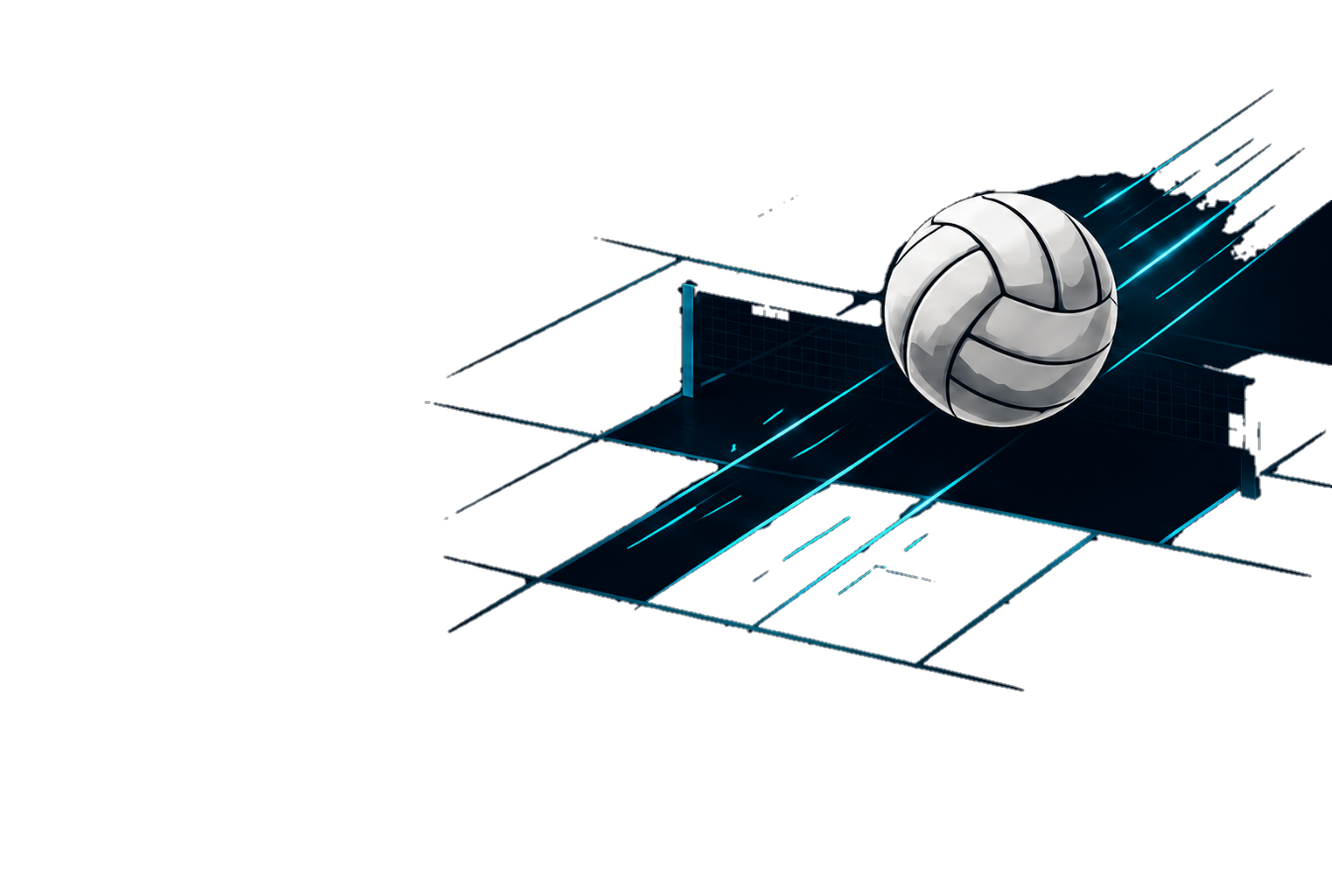
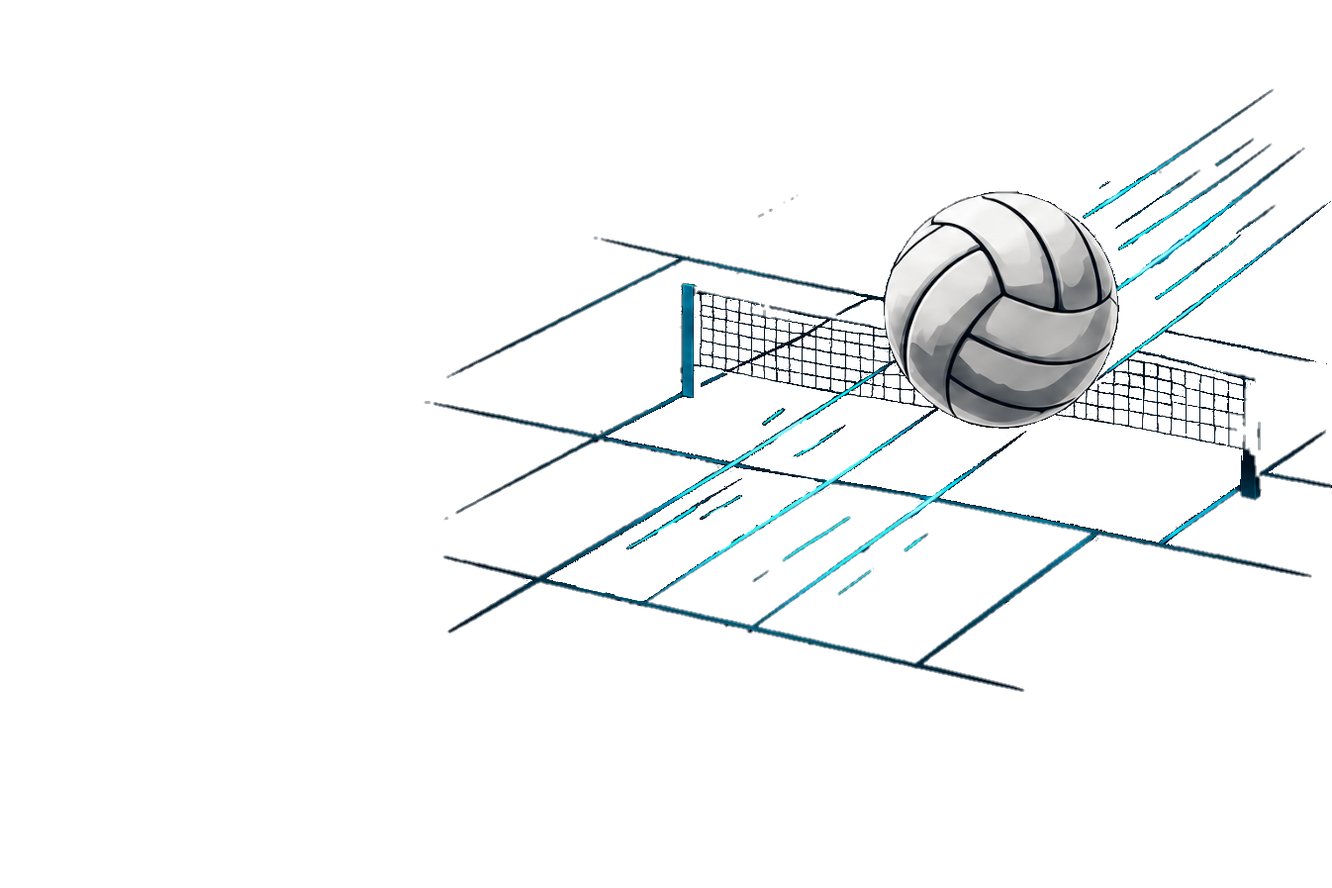
Versão 2.6
* Ajuste no modo claro.
* Opção de redefinir senha.
* Correção de bug.

Changed region(s): [[0.4056, 0.1873, 1.0, 0.6867], [0.6553, 0.6243, 0.6865, 0.6555]]

diff --git a/jogo.js b/jogo.js
@@ -191,7 +191,7 @@ function validateScores() {
 
 function renderLiveRanking() {
   const standings = buildStandings();
-  document.querySelector("#live-ranking-list").innerHTML = standings.map((team, index) => `<div class="ranking-row ${index < 3 ? "podium" : ""}"><strong>${index + 1}º</strong><span>${escapeQuick(team.name)}</span>${rankingStats(team)}</div>`).join("");
+  document.querySelector("#live-ranking-list").innerHTML = standings.map((team, index) => `<div class="ranking-row ${index < 3 ? "podium" : ""}"><strong>${index + 1}º</strong>${quickTeamDropdown(team.name)}${rankingStats(team)}</div>`).join("");
 }
 
 function persistPartialScores() {
@@ -268,6 +268,22 @@ function applyLiveSettings() {
 function renderOverview() {
   document.querySelector("#save-retro-scores").hidden = !retroEditingUnlocked;
   overviewRounds.innerHTML = quickSchedule.map((round, index) => `<article class="round overview-round ${index === currentRound ? "is-current" : ""}"><header class="round-title">Rodada ${index + 1}<span>${index === currentRound ? "ATUAL" : index < currentRound ? "CONCLUÍDA" : "AGUARDANDO"}</span></header>${round.matches.map(([home, away], gameIndex) => { const result = scores.get(scoreKey(index, gameIndex)); const editable = retroEditingUnlocked && index < currentRound; const currentGame = index === currentRound && gameIndex === confirmedGameCount; const score = result && result[0] !== "" && result[1] !== "" ? `${result[0]} × ${result[1]}` : "×"; return editable ? `<div class="match overview-match retro-match"><span>${escapeQuick(home)}</span><span class="retro-score-inputs"><input data-retro-round="${index}" data-retro-game="${gameIndex}" data-side="0" type="number" min="0" value="${result?.[0] ?? ""}" aria-label="Novo placar de ${escapeQuick(home)}" /><b>×</b><input data-retro-round="${index}" data-retro-game="${gameIndex}" data-side="1" type="number" min="0" value="${result?.[1] ?? ""}" aria-label="Novo placar de ${escapeQuick(away)}" /></span><span class="team-away">${escapeQuick(away)}</span></div>` : `<div class="match overview-match ${currentGame ? "is-current-match" : ""}"><span>${escapeQuick(home)}</span><span class="overview-score">${score}</span><span class="team-away">${escapeQuick(away)}</span></div>`; }).join("")}${round.bye ? `<div class="bye">Folga: <strong>${escapeQuick(round.bye)}</strong></div>` : ""}</article>`).join("");
+}
+
+function renderOverview() {
+  document.querySelector("#save-retro-scores").hidden = !retroEditingUnlocked;
+  overviewRounds.innerHTML = quickSchedule.map((round, index) => {
+    const state = index === currentRound ? "ATUAL" : index < currentRound ? "CONCLUÍDA" : "AGUARDANDO";
+    const matches = round.matches.map(([home, away], gameIndex) => {
+      const result = scores.get(scoreKey(index, gameIndex));
+      const editable = retroEditingUnlocked && index < currentRound;
+      const currentGame = index === currentRound && gameIndex === confirmedGameCount;
+      const score = result && result[0] !== "" && result[1] !== "" ? `${result[0]} × ${result[1]}` : "×";
+      if (editable) return `<div class="match overview-match retro-match"><span>${escapeQuick(home)}</span><span class="retro-score-inputs"><input data-retro-round="${index}" data-retro-game="${gameIndex}" data-side="0" type="number" min="0" value="${result?.[0] ?? ""}" aria-label="Novo placar de ${escapeQuick(home)}" /><b>×</b><input data-retro-round="${index}" data-retro-game="${gameIndex}" data-side="1" type="number" min="0" value="${result?.[1] ?? ""}" aria-label="Novo placar de ${escapeQuick(away)}" /></span><span class="team-away">${escapeQuick(away)}</span></div>`;
+      return `<div class="match overview-match ${currentGame ? "is-current-match" : ""}">${quickTeamDropdown(home)}<span class="overview-score">${score}</span>${quickTeamDropdown(away, true)}</div>`;
+    }).join("");
+    return `<article class="round overview-round ${index === currentRound ? "is-current" : ""}"><header class="round-title">Rodada ${index + 1}<span>${state}</span></header>${matches}${round.bye ? `<div class="bye">Folga: <strong>${escapeQuick(round.bye)}</strong></div>` : ""}</article>`;
+  }).join("");
 }
 
 async function unlockRetroEditing() {
@@ -385,6 +401,16 @@ currentMatches.addEventListener("click", (event) => {
   const selected = event.target.closest("details");
   if (!selected) return;
   currentMatches.querySelectorAll("details[open]").forEach((details) => { if (details !== selected) details.removeAttribute("open"); });
+});
+overviewRounds.addEventListener("click", (event) => {
+  const selected = event.target.closest("details");
+  if (!selected) return;
+  overviewRounds.querySelectorAll("details[open]").forEach((details) => { if (details !== selected) details.removeAttribute("open"); });
+});
+document.querySelector("#live-ranking-list").addEventListener("click", (event) => {
+  const selected = event.target.closest("details");
+  if (!selected) return;
+  document.querySelectorAll("#live-ranking-list details[open]").forEach((details) => { if (details !== selected) details.removeAttribute("open"); });
 });
 document.querySelector("#confirm-round").addEventListener("click", confirmScores);
 document.querySelector("#adjust-game-toggle").addEventListener("click", openLiveSettings);

diff --git a/auth.js b/auth.js
@@ -2,14 +2,16 @@ const loginTab = document.querySelector("#login-tab");
 const signupTab = document.querySelector("#signup-tab");
 const loginForm = document.querySelector("#login-form");
 const signupForm = document.querySelector("#signup-form");
+const recoveryForm = document.querySelector("#password-recovery-form");
+const passwordUpdateForm = document.querySelector("#password-update-form");
+const authTabs = document.querySelector(".auth-tabs");
 const authMessage = document.querySelector("#auth-message");
 const confirmationCompleted = new URLSearchParams(window.location.search).get("confirmado") === "1";
+const recoveryMode = new URLSearchParams(window.location.hash.slice(1)).get("type") === "recovery";
 
 const config = window.SUPABASE_CONFIG;
 const hasSupabaseKey = config?.anonKey && !config.anonKey.startsWith("COLE_A_CHAVE");
-const supabaseClient = hasSupabaseKey && window.supabase
-  ? window.supabase.createClient(config.url, config.anonKey)
-  : null;
+const supabaseClient = hasSupabaseKey ? window.supabaseClient || null : null;
 
 function setMessage(message, type = "") {
   authMessage.textContent = message;
@@ -27,11 +29,33 @@ function showForm(form) {
   const isLogin = form === "login";
   loginForm.hidden = !isLogin;
   signupForm.hidden = isLogin;
+  recoveryForm.hidden = true;
+  passwordUpdateForm.hidden = true;
+  authTabs.hidden = false;
   loginTab.classList.toggle("is-active", isLogin);
   signupTab.classList.toggle("is-active", !isLogin);
   loginTab.setAttribute("aria-selected", String(isLogin));
   signupTab.setAttribute("aria-selected", String(!isLogin));
   setMessage("");
+}
+
+function showRecoveryRequest() {
+  loginForm.hidden = true;
+  signupForm.hidden = true;
+  passwordUpdateForm.hidden = true;
+  recoveryForm.hidden = false;
+  authTabs.hidden = true;
+  setMessage("");
+  document.querySelector("#recovery-email").focus();
+}
+
+function showPasswordUpdate() {
+  loginForm.hidden = true;
+  signupForm.hidden = true;
+  recoveryForm.hidden = true;
+  passwordUpdateForm.hidden = false;
+  authTabs.hidden = true;
+  setMessage("Crie uma nova senha para acessar sua conta.");
 }
 
 function showConfirmationSuccess() {
@@ -52,6 +76,39 @@ async function requireConfiguration() {
 
 loginTab.addEventListener("click", () => showForm("login"));
 signupTab.addEventListener("click", () => showForm("signup"));
+document.querySelector("#password-recovery-toggle").addEventListener("click", showRecoveryRequest);
+document.querySelector("#back-to-login").addEventListener("click", () => showForm("login"));
+
+recoveryForm.addEventListener("submit", async (event) => {
+  event.preventDefault();
+  if (!await requireConfiguration()) return;
+  const button = recoveryForm.querySelector("button[type=submit]");
+  button.disabled = true;
+  setMessage("Enviando e-mail de recuperação…");
+  const { error } = await supabaseClient.auth.resetPasswordForEmail(document.querySelector("#recovery-email").value.trim(), {
+    redirectTo: new URL("login.html", window.location.href).href,
+  });
+  button.disabled = false;
+  if (error) setMessage(authErrorMessage(error), "is-error");
+  else setMessage("Se o e-mail estiver cadastrado, você receberá um link para criar uma nova senha.", "is-success");
+});
+
+passwordUpdateForm.addEventListener("submit", async (event) => {
+  event.preventDefault();
+  if (!await requireConfiguration()) return;
+  const password = document.querySelector("#new-password").value;
+  const confirmation = document.querySelector("#new-password-confirm").value;
+  if (password !== confirmation) { setMessage("As senhas precisam ser iguais.", "is-error"); return; }
+  const button = passwordUpdateForm.querySelector("button[type=submit]");
+  button.disabled = true;
+  const { error } = await supabaseClient.auth.updateUser({ password });
+  button.disabled = false;
+  if (error) { setMessage(authErrorMessage(error), "is-error"); return; }
+  window.history.replaceState({}, document.title, "login.html");
+  showForm("login");
+  setMessage("Senha alterada com sucesso. Entre com sua nova senha.", "is-success");
+});
+
 loginForm.addEventListener("submit", async (event) => {
   event.preventDefault();
   if (!await requireConfiguration()) return;
@@ -98,10 +155,13 @@ signupForm.addEventListener("submit", async (event) => {
 
 if (supabaseClient) {
   supabaseClient.auth.getSession().then(({ data }) => {
+    if (recoveryMode) { showPasswordUpdate(); return; }
     if (data.session && !confirmationCompleted) openTable();
   });
+  supabaseClient.auth.onAuthStateChange((event) => { if (event === "PASSWORD_RECOVERY") showPasswordUpdate(); });
 } else {
   setMessage("Acesse sua conta assim que a chave pública do Supabase for adicionada.");
 }
 
-showConfirmationSuccess();
+if (recoveryMode) showPasswordUpdate();
+else showConfirmationSuccess();

diff --git a/jogo-ponto.js b/jogo-ponto.js
@@ -159,6 +159,37 @@ function renderPointMatch() {
   document.querySelector("#point-current-match").innerHTML = `<article class="point-match"><section><strong>${escapePoint(home)}</strong><b>${score.home}</b>${controls(home)}</section><span>×</span><section><strong>${escapePoint(away)}</strong><b>${score.away}</b>${controls(away)}</section></article>${advance}`;
   renderPointRanking(); renderPointLivePlayerRanking(); renderPointOverview(); renderPointHistory();
 }
+function pointTeamDropdown(team, isAway = false) {
+  const teamIndex = pointTeams.indexOf(team);
+  const players = pointRoster[teamIndex] || [];
+  const content = players.length ? `<ul>${players.map((player) => `<li>${escapePoint(player)}</li>`).join("")}</ul>` : "<span>Nenhum participante cadastrado.</span>";
+  return `<div class="team-dropdown ${isAway ? "team-away" : ""}"><details><summary>${escapePoint(team)}</summary><div class="dropdown-menu"><strong>${escapePoint(team)}</strong>${content}</div></details></div>`;
+}
+
+function renderPointRanking() {
+  document.querySelector("#point-ranking").innerHTML = getPointStandings().map((team, index) => `<div class="ranking-row ${index < 3 ? "podium" : ""}"><strong>${index + 1}º</strong>${pointTeamDropdown(team.name)}<small class="ranking-stats"><span><b>Vit.</b>${team.wins}</span><span><b>Der.</b>${team.losses}</span><span><b>Jogos</b>${team.games}</span><span><b>Pontos</b>${team.points}</span><span><b>Saldo</b>${team.difference >= 0 ? "+" : ""}${team.difference}</span></small></div>`).join("");
+}
+
+function renderPointMatch() {
+  const round = pointSchedule[pointRound];
+  if (!round) {
+    document.querySelector("#point-round-title").textContent = "Jogo concluído";
+    document.querySelector("#point-progress").textContent = "Todas as rodadas foram concluídas.";
+    document.querySelector("#point-current-match").innerHTML = '<div class="quick-bye">Todos os placares foram registrados.</div>';
+    renderPointRanking(); renderPointLivePlayerRanking(); renderPointOverview(); renderPointHistory(); return;
+  }
+  const [home, away] = round.matches[pointMatch];
+  const key = pointKey(pointRound, pointMatch);
+  const score = pointScores.get(key) || { home: 0, away: 0, finished: false, confirmed: false };
+  document.querySelector("#point-round-title").textContent = `Rodada ${pointRound + 1}`;
+  document.querySelector("#point-progress").textContent = `${pointRound + 1} de ${pointSchedule.length} rodadas · primeiro time a ${pointsToWin.value} pontos`;
+  document.querySelector("#point-share-code-value").textContent = pointShareCode || "--";
+  const controls = (team) => score.finished ? "" : `<button class="point-add" data-team="${escapePoint(team)}" type="button" aria-label="Registrar ponto para ${escapePoint(team)}">+</button>`;
+  const advance = score.finished ? `<button id="point-advance-match" class="confirm-round" type="button">${pointMatch < round.matches.length - 1 || pointRound < pointSchedule.length - 1 ? "Avançar para a próxima partida" : "Concluir jogo"}</button>` : "";
+  document.querySelector("#point-current-match").innerHTML = `<article class="point-match"><section>${pointTeamDropdown(home)}<b>${score.home}</b>${controls(home)}</section><span>×</span><section>${pointTeamDropdown(away, true)}<b>${score.away}</b>${controls(away)}</section></article>${advance}`;
+  renderPointRanking(); renderPointLivePlayerRanking(); renderPointOverview(); renderPointHistory();
+}
+
 function registerPoint(player) {
   const key = pointKey(pointRound, pointMatch);
   const score = pointScores.get(key) || { home: 0, away: 0, finished: false, confirmed: false };
@@ -382,6 +413,11 @@ document.querySelector("#point-current-match").addEventListener("click", (event)
   const add = event.target.closest(".point-add");
   if (add) { if (pointRequireNames.checked) { selectedPointTeam = add.dataset.team; registerPoint("Outros"); } else openScorerDialog(add.dataset.team); return; }
   if (event.target.closest("#point-advance-match")) advancePointMatch();
+});
+document.querySelector("#point-ranking").addEventListener("click", (event) => {
+  const selected = event.target.closest("details");
+  if (!selected) return;
+  document.querySelectorAll("#point-ranking details[open]").forEach((details) => { if (details !== selected) details.removeAttribute("open"); });
 });
 document.querySelector("#point-scorer-options").addEventListener("click", (event) => {
   const choice = event.target.closest(".point-scorer-choice");

diff --git a/style.css b/style.css
@@ -60,6 +60,8 @@ body {
 .auth-form[hidden] { display: none; }
 .auth-form label { margin-top: 4px; }
 .auth-form button { width: 100%; margin-top: 13px; }
+.auth-form .recovery-link { min-height: auto; margin-top: 2px; padding: 4px 0; color: var(--purple-dark); background: transparent; box-shadow: none; font-size: .82rem; text-align: left; }
+.auth-form .recovery-link:hover { color: var(--purple); background: transparent; transform: none; text-decoration: underline; }
 .spectator-access { display: grid; gap: 9px; padding-top: 12px; border-top: 1px solid var(--line); }
 .spectator-access[hidden] { display: none; }
 .spectator-link { display: flex; align-items: center; justify-content: center; text-decoration: none; }
@@ -110,6 +112,21 @@ body {
 .dashboard-footer { display: flex; align-items: center; justify-content: center; gap: 20px; min-height: 58px; padding: 12px 24px; border-top: 1px solid #374151; color: #9ca3af; background: #000a17; font-size: .76rem; }
 .dashboard-footer a, .dashboard-footer button { padding: 0; border: 0; color: #67e8f9; background: transparent; box-shadow: none; font: 700 .78rem "Outfit", sans-serif; text-decoration: none; }
 .dashboard-footer button:hover { color: #67e8f9; background: transparent; transform: none; text-decoration: underline; }
+
+/* Tema claro do painel principal */
+body[data-theme="light"] .dashboard-shell { color: #1e293b; background: #f8fafc; }
+body[data-theme="light"] .dashboard-header { border-color: #374151; background: #1f2937; }
+body[data-theme="light"] .dashboard-header .account-card { color: #f8fafc; }
+body[data-theme="light"] .dashboard-header .account-card span { color: #9ca3af; }
+body[data-theme="light"] .dashboard-welcome .welcome-copy { padding: 24px; border: 1px solid #374151; border-radius: 12px; color: #f8fafc; background: #1f2937; box-shadow: 0 10px 24px rgba(30, 41, 59, .16); }
+body[data-theme="light"] .welcome-copy h1 { color: #f8fafc; }
+body[data-theme="light"] .quick-actions-section h2 { color: #1e293b; }
+body[data-theme="light"] .welcome-copy > p:not(:first-child) { color: #d1d5db; }
+body[data-theme="light"] .dashboard-action { border-color: #e2e8f0; color: #1e293b; background: #ffffff; box-shadow: 0 8px 20px rgba(30, 41, 59, .06); }
+body[data-theme="light"] .dashboard-action:hover { border-color: #22d3ee; background: #effcff; }
+body[data-theme="light"] .dashboard-action.is-disabled:hover { border-color: #e2e8f0; background: #ffffff; }
+body[data-theme="light"] .dashboard-action small { color: #64748b; }
+body[data-theme="light"] .dashboard-footer { border-color: #374151; color: #9ca3af; background: #1f2937; }
 
 .menu-shell { display: grid; min-height: 100vh; grid-template-columns: 238px 1fr; background: #000a17; }
 .sidebar { display: flex; min-height: 100vh; padding: 10px 20px 30px; flex-direction: column; border-right: 1px solid #374151; background: #1f2937; }
@@ -338,6 +355,7 @@ button:hover { background: var(--purple-dark); transform: translateY(-1px); }
 .coming-soon-page { min-height: calc(100vh - 70px); }
 .config-account-form { display: grid; max-width: 520px; gap: 9px; margin-top: 22px; }
 .config-account-form button { width: min(100%, 260px); margin-top: 9px; }
+.password-recovery-card > p:not(.eyebrow) { max-width: 520px; margin: 10px 0 0; color: var(--muted); line-height: 1.45; }
 .point-players-panel { display: block; }
 .point-current-match { margin-top: 16px; }
 .point-match { display: grid; grid-template-columns: 1fr auto 1fr; align-items: center; gap: 18px; padding: 24px; border: 1px solid var(--line); border-radius: 16px; background: var(--card); }

diff --git a/config.js b/config.js
@@ -1,10 +1,15 @@
 const config = window.SUPABASE_CONFIG;
-const configClient = config?.anonKey && !config.anonKey.startsWith("COLE_A_CHAVE") && window.supabase
-  ? window.supabase.createClient(config.url, config.anonKey)
-  : null;
+const configClient = config?.anonKey && !config.anonKey.startsWith("COLE_A_CHAVE") ? window.supabaseClient || null : null;
 const configForm = document.querySelector("#account-form");
 const configMessage = document.querySelector("#account-message");
 let configUser = null;
+
+const recoveryCard = document.createElement("section");
+recoveryCard.className = "setup-card password-recovery-card";
+recoveryCard.innerHTML = `<p class="eyebrow">SEGURANÇA</p><h2>Recuperar senha</h2><p>Enviaremos um link para criar uma nova senha no e-mail da sua conta.</p><form id="config-recovery-form" class="config-account-form"><label for="config-recovery-email">E-mail de recuperação</label><input id="config-recovery-email" type="email" readonly /><p id="config-recovery-message" class="auth-message" role="status"></p><button type="submit">Enviar e-mail de recuperação</button></form>`;
+configForm.closest(".setup-card").insertAdjacentElement("afterend", recoveryCard);
+const configRecoveryForm = document.querySelector("#config-recovery-form");
+const configRecoveryMessage = document.querySelector("#config-recovery-message");
 
 if (configClient) {
   configClient.auth.getUser().then(({ data }) => {
@@ -12,6 +17,7 @@ if (configClient) {
     if (!configUser) return;
     document.querySelector("#account-edit-name").value = configUser.user_metadata?.display_name || "";
     document.querySelector("#account-edit-email").value = configUser.email || "";
+    document.querySelector("#config-recovery-email").value = configUser.email || "";
   });
 }
 
@@ -26,4 +32,24 @@ configForm.addEventListener("submit", async (event) => {
   configUser = data.user;
   configMessage.textContent = emailChanged ? "Cadastro salvo. Confirme o novo e-mail, se solicitado." : "Cadastro salvo.";
   configMessage.className = "auth-message is-success";
+});
+
+configRecoveryForm.addEventListener("submit", async (event) => {
+  event.preventDefault();
+  if (!configClient || !configUser) return;
+  const button = configRecoveryForm.querySelector("button");
+  button.disabled = true;
+  configRecoveryMessage.textContent = "Enviando e-mail de recuperação…";
+  configRecoveryMessage.className = "auth-message";
+  const { error } = await configClient.auth.resetPasswordForEmail(configUser.email, {
+    redirectTo: new URL("login.html", window.location.href).href,
+  });
+  button.disabled = false;
+  if (error) {
+    configRecoveryMessage.textContent = error.message;
+    configRecoveryMessage.className = "auth-message is-error";
+    return;
+  }
+  configRecoveryMessage.textContent = "E-mail enviado. Abra o link recebido para criar uma nova senha.";
+  configRecoveryMessage.className = "auth-message is-success";
 });

diff --git a/login.html b/login.html
@@ -30,6 +30,7 @@
           <label for="login-password">Senha</label>
           <input id="login-password" type="password" autocomplete="current-password" placeholder="Sua senha" required />
           <button type="submit">Entrar na conta</button>
+          <button id="password-recovery-toggle" class="recovery-link" type="button">Esqueci minha senha</button>
           <a class="secondary-button spectator-link" href="acompanhar.html">Acompanhar jogo com código</a>
         </form>
         <form id="signup-form" class="auth-form" hidden>
@@ -43,6 +44,21 @@
           <input id="signup-password-confirm" type="password" autocomplete="new-password" placeholder="Repita sua senha" minlength="6" required />
           <button type="submit">Criar minha conta</button>
         </form>
+        <form id="password-recovery-form" class="auth-form" hidden>
+          <p class="auth-intro">Informe o e-mail da sua conta. Enviaremos um link para criar uma nova senha.</p>
+          <label for="recovery-email">E-mail de recuperação</label>
+          <input id="recovery-email" type="email" autocomplete="email" placeholder="voce@email.com" required />
+          <button type="submit">Enviar e-mail de recuperação</button>
+          <button id="back-to-login" class="secondary-button" type="button">Voltar para entrar</button>
+        </form>
+        <form id="password-update-form" class="auth-form" hidden>
+          <p class="auth-intro">Defina sua nova senha para concluir a recuperação.</p>
+          <label for="new-password">Nova senha</label>
+          <input id="new-password" type="password" autocomplete="new-password" placeholder="Mínimo de 6 caracteres" minlength="6" required />
+          <label for="new-password-confirm">Confirmar nova senha</label>
+          <input id="new-password-confirm" type="password" autocomplete="new-password" placeholder="Repita a nova senha" minlength="6" required />
+          <button type="submit">Salvar nova senha</button>
+        </form>
         <p id="auth-message" class="auth-message" role="status" aria-live="polite"></p>
       </section>
     </main>
@@ -50,6 +66,6 @@
     <script src="https://cdn.jsdelivr.net/npm/@supabase/supabase-js@2"></script>
     <script src="supabase-config.js"></script>
     <script src="theme.js"></script>
-    <script src="auth.js?v=3"></script>
+    <script src="auth.js?v=4"></script>
   </body>
 </html>

diff --git a/jogoajogo.html b/jogoajogo.html
@@ -53,6 +53,6 @@
       <a class="home-button" href="index.html"><span aria-hidden="true"><img src="assets/casa.png" alt="" /></span> Menu principal</a>
     </main>
     <footer class="site-footer">© 2026 RST Code. Todos os direitos reservados.</footer>
-    <script src="https://cdn.jsdelivr.net/npm/@supabase/supabase-js@2"></script><script src="supabase-config.js"></script><script src="theme.js"></script><script src="table-auth.js"></script><script src="game-storage.js?v=3"></script><script src="https://cdnjs.cloudflare.com/ajax/libs/jspdf/2.5.1/jspdf.umd.min.js"></script><script src="jogo-ponto.js?v=10"></script>
+    <script src="https://cdn.jsdelivr.net/npm/@supabase/supabase-js@2"></script><script src="supabase-config.js"></script><script src="theme.js"></script><script src="table-auth.js"></script><script src="game-storage.js?v=3"></script><script src="https://cdnjs.cloudflare.com/ajax/libs/jspdf/2.5.1/jspdf.umd.min.js"></script><script src="jogo-ponto.js?v=11"></script>
   </body>
 </html>

diff --git a/supabase-config.js b/supabase-config.js
@@ -3,3 +3,9 @@ window.SUPABASE_CONFIG = {
   // Cole aqui a chave anon/publishable do projeto (Project Settings > API).
   anonKey: "sb_publishable_XC4fJjlKKfR9n5_tec1uPA_s-PAa0-g",
 };
+
+// Uma única instância mantém autenticação e atualização de token consistentes
+// entre todos os scripts carregados na mesma página.
+if (!window.supabaseClient && window.supabase && window.SUPABASE_CONFIG.anonKey && !window.SUPABASE_CONFIG.anonKey.startsWith("COLE_A_CHAVE")) {
+  window.supabaseClient = window.supabase.createClient(window.SUPABASE_CONFIG.url, window.SUPABASE_CONFIG.anonKey);
+}

diff --git a/menu.js b/menu.js
@@ -1,8 +1,6 @@
 const menuConfig = window.SUPABASE_CONFIG;
 const menuHasKey = menuConfig?.anonKey && !menuConfig.anonKey.startsWith("COLE_A_CHAVE");
-const menuSupabase = menuHasKey && window.supabase
-  ? window.supabase.createClient(menuConfig.url, menuConfig.anonKey)
-  : null;
+const menuSupabase = menuHasKey ? window.supabaseClient || null : null;
 const nameNode = document.querySelector("#account-name");
 const emailNode = document.querySelector("#account-email");
 const logoutButton = document.querySelector("#logout-button");

diff --git a/game-storage.js b/game-storage.js
@@ -2,7 +2,7 @@ const QUICK_GAME_ACTIVE_KEY = "volley-hub-quick-game-active";
 const QUICK_GAME_RESULTS_KEY = "volley-hub-quick-game-results";
 const cloudConfig = window.SUPABASE_CONFIG;
 const cloudEnabled = cloudConfig?.anonKey && !cloudConfig.anonKey.startsWith("COLE_A_CHAVE") && window.supabase;
-const cloudSupabase = cloudEnabled ? window.supabase.createClient(cloudConfig.url, cloudConfig.anonKey) : null;
+const cloudSupabase = cloudEnabled ? window.supabaseClient || null : null;
 
 window.quickGameStore = {
   getActive() {

diff --git a/table-auth.js b/table-auth.js
@@ -1,9 +1,7 @@
 const tableConfig = window.SUPABASE_CONFIG;
 document.body.dataset.theme = localStorage.getItem("volley-theme") || "dark";
 const tableHasKey = tableConfig?.anonKey && !tableConfig.anonKey.startsWith("COLE_A_CHAVE");
-const tableSupabase = tableHasKey && window.supabase
-  ? window.supabase.createClient(tableConfig.url, tableConfig.anonKey)
-  : null;
+const tableSupabase = tableHasKey ? window.supabaseClient || null : null;
 
 function returnToLogin() {
   window.location.replace("login.html");

diff --git a/index.html b/index.html
@@ -42,8 +42,8 @@
     </main>
     <script src="https://cdn.jsdelivr.net/npm/@supabase/supabase-js@2"></script>
     <script src="supabase-config.js"></script>
-    <script src="theme.js"></script>
+    <script src="theme.js?v=4"></script>
     <script src="game-storage.js?v=3"></script>
-    <script src="menu.js?v=8"></script>
+    <script src="menu.js?v=9"></script>
   </body>
 </html>
